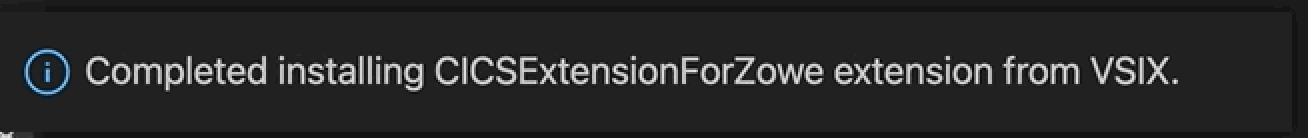
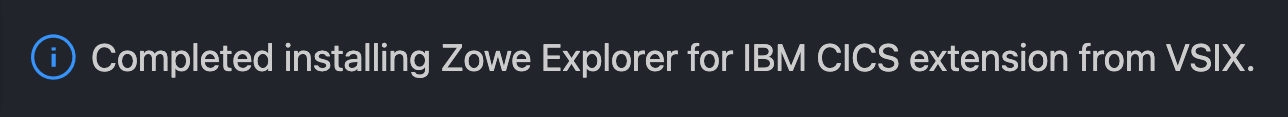
update-modifications
- replace the screenshot of the pop-up message
- modify some expressions

Changed region(s): [[0.0, 0.2821, 0.9938, 0.6923], [0.0, 0.9487, 0.0311, 1.0]]

diff --git a/docs/user-guide/ze-cics.md b/docs/user-guide/ze-cics.md
@@ -47,12 +47,12 @@ Install [Visual Studio Code](https://code.visualstudio.com/download) on your PC.
 
 ## Installing
 
-You can install or update the extension from Visual Studio Code or from a VSIX file.
+You can install or update the extension from Visual Studio Code Extensions or from a VSIX file.
 
-- [Installing from Visual Studio Code](#installing-from-visual-studio-code)
+- [Installing from Visual Studio Code Extensions](#installing-from-visual-studio-code-extensions)
 - [Installing from a VSIX file](#installing-from-a-vsix-file)
 
-### Installing from Visual Studio Code
+### Installing from Visual Studio Code Extensions
 
 1. Navigate to **Extensions** tab of your VS Code application.
 
@@ -68,7 +68,7 @@ You can install or update the extension from Visual Studio Code or from a VSIX f
 
    ![Download Zowe CICS Explorer](../images/ze-cics/cics-latest-vsix.png)
 
-2. Open the Extensions icon in the side bar, navigate to the **...** menu, press **Install from VSIX ...** and select the downloaded `cics-extension-for-zowe-0.0.1.vsix` file.
+2. Open the Extensions icon in the side bar, navigate to the **...** menu, press **Install from VSIX ...** and select the downloaded `cics-extension-for-zowe-1.x.x.vsix` file.
 
    ![Installing Zowe CICS Explorer](../images/ze-cics/zowe-cics-explorer-install.gif)
 
@@ -207,8 +207,6 @@ The `New copy count` for a program which is greater than zero is shown next to t
 1. Right-click against a closed local file. 
 2. Select **Open Local File** to toggle the `openstatus` attribute to `OPEN`.
 
-<!--*Screen capture needed here*-->
-
 **Close a local file**
 
 1. Right-click against an open local file and select **Close Local File**. 
@@ -245,10 +243,10 @@ You are welcome to contribute to the Zowe Explorer CICS Extension in many forms 
 
 ### Checking the source of an error
 
-Before filing an issue, check if an error is arising from the Zowe Explorer for IBM CICS extension instead of the Zowe Explorer extension. To check the error source, expand the error message and review the `Source` description. 
+Before filing an issue, check if an error is arising from the Zowe Explorer for IBM CICS extension instead of the Zowe Explorer extension. To check the error source, expand the error message and review the `Source` description.
 
-- Errors arising from the Zowe Explorer CICS extension will have the `Source` as `Zowe Explorer for IBM CICS (Extension)`, 
-- Errors arising from the Zowe Explorer extension will have the `Source` as `Zowe Explorer(Extension)`.
+- Errors arising from the Zowe Explorer CICS extension will have the `Source` as `Zowe Explorer for IBM CICS (Extension)`,
+- Errors arising from the Zowe Explorer extension will have the `Source` as `Zowe Explorer (Extension)`.
 
 ![Image that shows how to check the error source](../images/ze-cics/expand-error-cics.gif)
 
@@ -258,7 +256,7 @@ To file issues, use the [Zowe Explorer for IBM CICS issue list](https://github.c
 
 ## Uninstalling
 
-You can uninstall the Zowe Explorer CICS extension from the VS Code Extensions tab. 
+You can uninstall the Zowe Explorer CICS extension from the VS Code Extensions tab.
 
 1. Navigate to **Extensions** tab of the VS Code application.
 
